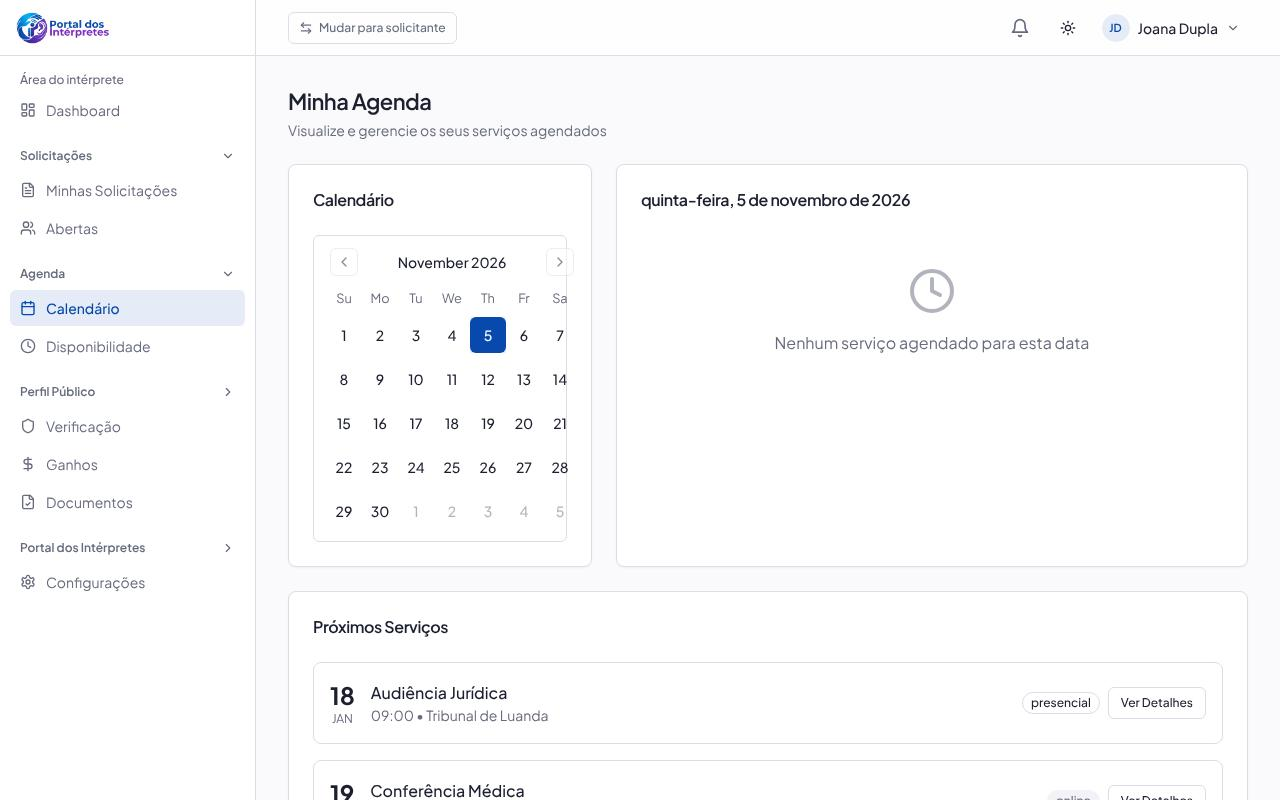
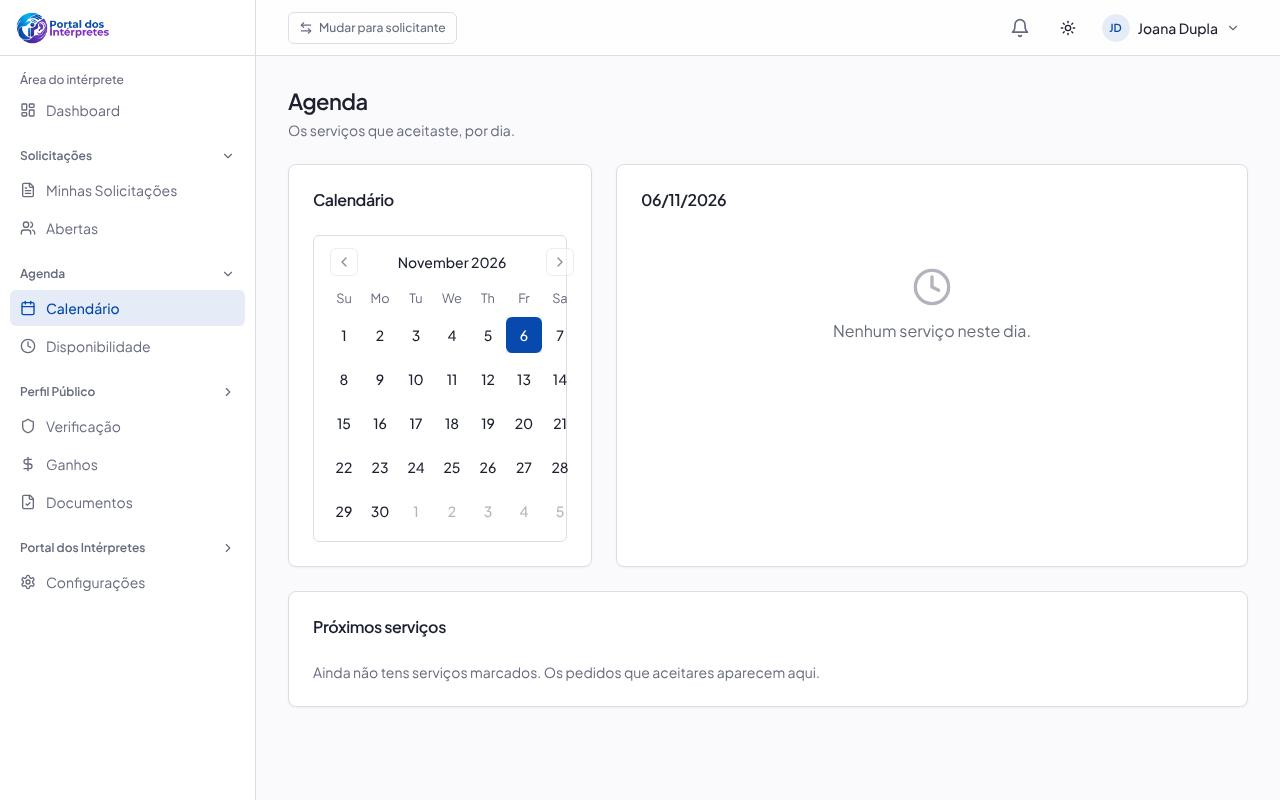
chore(release): close step H8 as v0.17.0
- route smoke tests follow the real admin /requests and interpreter /schedule
- step report, CHANGELOG, HANDOFF, run-log; evidence of H8

diff --git a/tests/e2e/specs/admin-routes.spec.ts b/tests/e2e/specs/admin-routes.spec.ts
@@ -13,8 +13,8 @@ const routes: SmokeRoute[] = [
   { path: '/verifications/history', name: 'verification-history', expectText: 'Histórico de Verificações' },
   { path: '/requesters', name: 'requesters', expectText: 'Solicitantes' },
   { path: '/organizations', name: 'organizations', expectText: 'Organizações' },
-  { path: '/requests', name: 'requests', expectText: 'Gestão de Solicitações' },
-  { path: '/requests/1', name: 'request-details', expectText: 'Detalhes da Solicitação' },
+  { path: '/requests', name: 'requests', expectText: 'Todos os pedidos da plataforma.' },
+  { path: '/requests/00000000-0000-4000-8000-000000000000', name: 'request-not-found', expectText: 'Não encontrámos este pedido.' },
   { path: '/payments', name: 'payments', expectText: 'Gestão de Pagamentos' },
   { path: '/catalog/services', name: 'catalog-services', expectText: 'Serviços' },
   { path: '/catalog/languages', name: 'catalog-languages', expectText: 'Línguas' },

diff --git a/tests/e2e/specs/interpreter-routes.spec.ts b/tests/e2e/specs/interpreter-routes.spec.ts
@@ -9,7 +9,7 @@ const routes: SmokeRoute[] = [
   { path: '/requests', name: 'requests', expectText: 'Solicitações' },
   { path: '/open-requests', name: 'open-requests', expectText: 'Solicitações Abertas' },
   { path: '/requests/00000000-0000-4000-8000-000000000000', name: 'request-not-found', expectText: 'Não encontrámos este pedido.' },
-  { path: '/schedule', name: 'schedule', expectText: 'Minha Agenda' },
+  { path: '/schedule', name: 'schedule', expectText: 'Os serviços que aceitaste, por dia.' },
   { path: '/availability', name: 'availability', expectText: 'Disponibilidade' },
   { path: '/earnings', name: 'earnings', expectText: 'Ganhos' },
   { path: '/reviews', name: 'reviews', expectText: 'Avaliações' },

diff --git a/docs/plan/step-reports/H8.md b/docs/plan/step-reports/H8.md
@@ -1,0 +1,59 @@
+# Relatório do passo H8 — ciclo do serviço e cascata da suspensão (v0.17.0, 2026-11-06)
+
+## O que mudou
+- **Base (migration 0010):** `booking.disputes`, com uma só disputa aberta por atribuição.
+- **Funções (`99-lifecycle.sql`):**
+  - `cancel_request` (o pedido inteiro, pelo lado do solicitante ou pela equipa) e `cancel_assignment` (a parte do intérprete, ou pela equipa); cancelamento tardio estrito a menos de `cancellation_free_until_hours`, só nas atribuições aceites, nunca pela equipa (`D-22`);
+  - `mark_delivered` (só depois da hora de fim, `NOT_FINISHED_YET`), `confirm_delivery`, `auto_confirm_deliveries` (tarefa a cada 5 minutos);
+  - `open_dispute` e `resolve_dispute` (moderador que não seja parte; auditado);
+  - `on_account_suspended` e `on_organization_suspended`, chamadas dentro de `identity.suspend_account` e `suspend_organization` (`R-ACC-05`);
+  - as vistas `directory.late_cancellations` e `booking.dispute_details`.
+- **`refresh_request_status`:** depois do início um lugar já não reabre; as conversas fecham quando o pedido termina; "Pedido confirmado" só à entrada.
+- **API:** `POST /requests/:id/cancel`, `POST /assignments/:id/cancel|deliver|confirm|disputes`, `POST /admin/disputes/:id/resolve`.
+- **Ecrãs:**
+  - solicitante: "Cancelar pedido" com o aviso de tardio, "Confirmar que o serviço foi feito" e "Abrir disputa" com o prazo da confirmação automática, as disputas do pedido;
+  - intérprete: "Cancelar a minha participação", "Marcar como feito" (activo depois do fim), "Abrir disputa"; `/schedule` real, com os serviços por marcar como feitos em destaque;
+  - admin: `/requests` (filtro "Em disputa") e `/requests/:id` com o painel da disputa e "Resolver"; os mocks antigos foram apagados;
+  - textos do sino para os avisos novos.
+
+## Prova
+### Testes de comportamento contra o commit anterior
+As asserções de `packages/db/tests/0010-lifecycle.sql`, o teste da API do ciclo e `tests/e2e/specs/h8-lifecycle.spec.ts` usam funções e rotas que não existem em `v0.16.0`. Falham lá por construção e passam aqui.
+
+### Asserções SQL do H8
+```
+ok - a cancellation under 24 hours is late and counted; at 25 hours or exactly 24 it is not (criteria 1, 2; D-22)
+ok - the interpreter cancels its place: late within 24 hours, the request waits for interpreters again (R-LIFE-02)
+ok - done only after the end (NOT_FINISHED_YET); confirmed automatically after 48 hours (criteria 3, 4)
+ok - an open dispute stops the automatic confirmation; a moderator resolves with notes (criterion 5, R-LIFE-06)
+ok - a dispute resolved as cancelled after the start does not reopen the place (R-LIFE-07)
+ok - once an interpreter delivered, the request is confirmed or disputed, never cancelled (review of H8)
+ok - the parties read their disputes, nobody else does
+ok - suspending an interpreter cancels what has not started, in one transaction (accounts criterion 5, R-ACC-05)
+ok - suspending a requester cancels its requests not yet started, never late (R-ACC-05)
+```
+Na base de desenvolvimento, já usada pelo Playwright, falham `0001`, `0002` e `0004` por dependerem do estado (contadores de códigos, emails na fila, contas anónimas). O `db:verify` completo, com a base limpa, corre no push.
+
+### API e Playwright
+```
+API contra a base: 8 ficheiros, 49 testes passaram
+suite completa (antes das correcções): 131 passed, 3 failed (os testes de rota ainda esperavam os textos dos mocks substituídos)
+depois das correcções: admin, panels, h5 e h8 106 passed
+```
+Capturas em `docs/plan/evidence/H8/`.
+
+## Revisão independente
+7 achados; corrigidos 6, o 7.º registado:
+1. **Bloqueante:** cancelar um pedido com um serviço já marcado como feito deixava um pedido cancelado com uma atribuição depois concluída. Corrigido: `STATE_CHANGED`, e o botão desaparece.
+2. "Pedido confirmado" repetido depois de uma disputa resolvida. Corrigido.
+3. O cancelamento tardio de um dono da organização contava no membro que criou o pedido. Corrigido: conta contra quem cancelou (`D-22`).
+4. A janela de 12 meses usa o relógio real e não `util.now()`. Mantido e registado (AD-037.3): a sessão não corre funções fora de `auth_helper`.
+5. Os avisos de cancelamento pela equipa e de suspensão contavam a história errada. Corrigido.
+6. Qualquer nível da equipa lia as disputas. Corrigido: partes, moderadores e operadores de pedidos.
+7. As funções do aviso de tardio e do prazo respondiam a qualquer id. Corrigido: só a quem vê o pedido.
+
+## Fica para depois
+- Critério 6 (reembolso no gerido pago) e a suspensão num gerido pago: H11.
+- A leitura do chat pelo moderador (`R-PRIV-05`): H14.
+- O lembrete ao intérprete que não marca como feito (`delivery_reminder`): melhoria, sem passo.
+- Na barra lateral do admin, `/requests` aparece como "Solicitações" dentro de "Verificação Paga": para o refinamento dos painéis.

diff --git a/HANDOFF.md b/HANDOFF.md
@@ -1,13 +1,15 @@
 # HANDOFF
-- Versão: v0.16.0 (H7 fechado em 2026-11-05)
-- Próximo passo: H8 — cancelar, marcar como feito, confirmar, confirmação automática, disputas, e a cascata da suspensão (docs/plan/specs/service-lifecycle.md; critério 5 de contas)
+- Versão: v0.17.0 (H8 fechado em 2026-11-06)
+- Próximo passo: H9 — avaliações dupla-cegas (docs/plan/specs/reviews.md; critérios 1 a 5)
 - Remoto: https://github.com/RafaelPilartes/monorepo-portal_dos_interprete-ts (trabalho em `dev`; `main` não se toca)
+- Feito no H8: cancelar (pedido e participação, com tardio), marcar como feito, confirmar e confirmação automática, disputas e resolução no admin, `/schedule` real, cascata da suspensão (7 achados da revisão, 6 corrigidos, docs/plan/step-reports/H8.md).
 - Feito no H7: pedido aberto nos dois modos, candidaturas, escolha, aceitação concorrente (10 achados da revisão corrigidos ou registados, docs/plan/step-reports/H7.md).
 - Feito no H6: negociação de preço no chat (propostas, contrapropostas, aceitar e recusar; 10 achados da revisão corrigidos ou registados, docs/plan/step-reports/H6.md).
 - Feito no H5: pedidos (só o directo), convites, aceitar e recusar, estado derivado, expirações, chat, sino e `/notifications`. 13 achados da revisão corrigidos ou registados (docs/plan/step-reports/H5.md).
-- A lembrar no H8: cancelar, feito, confirmar, disputas e a cascata da suspensão sobre pedidos e atribuições (`identity.suspend_account`, `R-ACC-05`); o diálogo de suspensão já o promete (AD-030.4); ecrãs de pedidos da equipa com a disputa.
-- A lembrar no H7, H8 e H11: abrir os outros tipos em `booking.create_request` e no assistente; cancelamento e ecrãs de pedidos da equipa (H8); passo 4 de `refresh_request_status` (pagamento do gerido, H11). Coisas dos ecrãs adiadas: AD-034.12.
-- Auto-decisões novas: AD-034 (H5), AD-035 (H6), AD-036 (H7)
+- A lembrar no H9: as avaliações abrem quando a atribuição fica `completed` (H8 já o marca: `completed_via`).
+- A lembrar no H11: critério 6 do ciclo (reembolso numa disputa do gerido, `refund_decision`), a suspensão num gerido pago, o repasse ao concluir.
+- A lembrar no H7, H8 e H11: abrir os outros tipos em `booking.create_request` e no assistente; passo 4 de `refresh_request_status` (pagamento do gerido, H11). Coisas dos ecrãs adiadas: AD-034.12.
+- Auto-decisões novas: AD-034 (H5), AD-035 (H6), AD-036 (H7), AD-037 (H8)
 - Bloqueios: bundle do histórico antigo (AD-001); push de tags (correr scripts/release-tags.sh, AD-002)
 - Por confirmar com a Academia: fixos angolanos (AD-020); limites dos buckets (AD-022); reset-local (AD-025); email genérico (AD-027); preços reais dos serviços (AD-032.8); textos legais, margem do gerido, taxa de verificação e dados bancários (PC-02, PC-03, PC-05, PC-06)
 - Ambiente: arrancar o `dockerd` à mão se `docker info` falhar (apagar `/var/run/docker.pid` se ficou de uma sessão anterior); `pnpm db:up && pnpm db:bootstrap-admin admin@portal.local` antes do Playwright; `pnpm db:down` no fim. Não correr o push (que corre `db:verify`) ao mesmo tempo que o Playwright: os dois usam a base local.

diff --git a/docs/plan/run-log.md b/docs/plan/run-log.md
@@ -20,3 +20,4 @@
 | 2026-10-31 | H5 | v0.14.0 | 259 unitários; 44 da API contra a base; 81 asserções SQL; e2e 128/128; verify.py 22/22 | 13 achados (1 bloqueante: o intérprete convidado lia o beneficiário na tabela; marcas de leitura sem permissão, histórico com linhas de outros intérpretes, arredondamento 0, assistente com 2 intérpretes, reduzir cancelava os convites errados); corrigidos ou registados (step-reports/H5.md) | AD-034 |
 | 2026-11-05 | H6 | v0.15.0 | 259 unitários; 5 da API de pedidos e negociação; 4 asserções SQL novas; e2e 129/129 antes das correcções, h5+h6 5/5 depois; verify.py 22/22 | 10 achados (0 bloqueantes; propostas abertas depois de recusa/expiração, preços desactualizados no ecrã, dois botões Aceitar, decimais); corrigidos ou registados (step-reports/H6.md) | AD-035 |
 | 2026-11-05 | H7 | v0.16.0 | 259 unitários; 8 da API de pedidos (com o concorrente); 6 asserções SQL novas; e2e 131/131 antes das correcções, h5+h6+h7 7/7 depois; verify.py 22/22 | 10 achados (0 bloqueantes; candidatos cancelados ao reduzir, expiração sem aviso aos candidatos, link da reunião para elegíveis, mensagem de sobreposição errada, aceitar depois do início); corrigidos ou registados (step-reports/H7.md) | AD-036 |
+| 2026-11-06 | H8 | v0.17.0 | 259 unitários; 49 da API contra a base; 9 asserções SQL novas; e2e 131/134 antes das correcções (3 testes de rota com textos de mocks), admin+panels+h5+h8 106/106 depois; verify.py 22/22 | 7 achados (1 bloqueante: cancelar depois de um serviço feito; confirmação repetida, tardio na conta errada, avisos, leitura das disputas); 6 corrigidos, 1 registado (step-reports/H8.md) | AD-037 |

diff --git a/CHANGELOG.md b/CHANGELOG.md
@@ -2,6 +2,16 @@
 
 Uma versão por passo do `docs/plan/MASTER-PLAN.md`. Uma só versão para todo o monorepo.
 
+## 0.17.0 — 2026-11-06 — Passo H8 (ciclo do serviço)
+
+- Quem pede pode cancelar o pedido; a menos de 24 horas do início, o ecrã avisa que fica registado no perfil.
+- O intérprete pode cancelar a sua participação antes do início, e marcar o serviço como feito depois da hora de fim.
+- Quem pede confirma o serviço ou abre uma disputa; sem resposta, o serviço fica confirmado automaticamente.
+- A equipa vê os pedidos e as disputas no painel e resolve-as com notas.
+- A agenda do intérprete mostra os serviços aceites e os que faltam marcar como feitos.
+- Suspender uma conta cancela os pedidos e participações que ainda não começaram, e avisa a outra parte.
+- Relatório: `docs/plan/step-reports/H8.md`.
+
 ## 0.16.0 — 2026-11-05 — Passo H7 (pedido aberto)
 
 - Quem pede pode publicar o pedido para os intérpretes, em dois modos: "eu escolho" (candidatam-se com o seu preço) ou "o primeiro que aceitar" (a um valor fixo por intérprete, tudo incluído).
